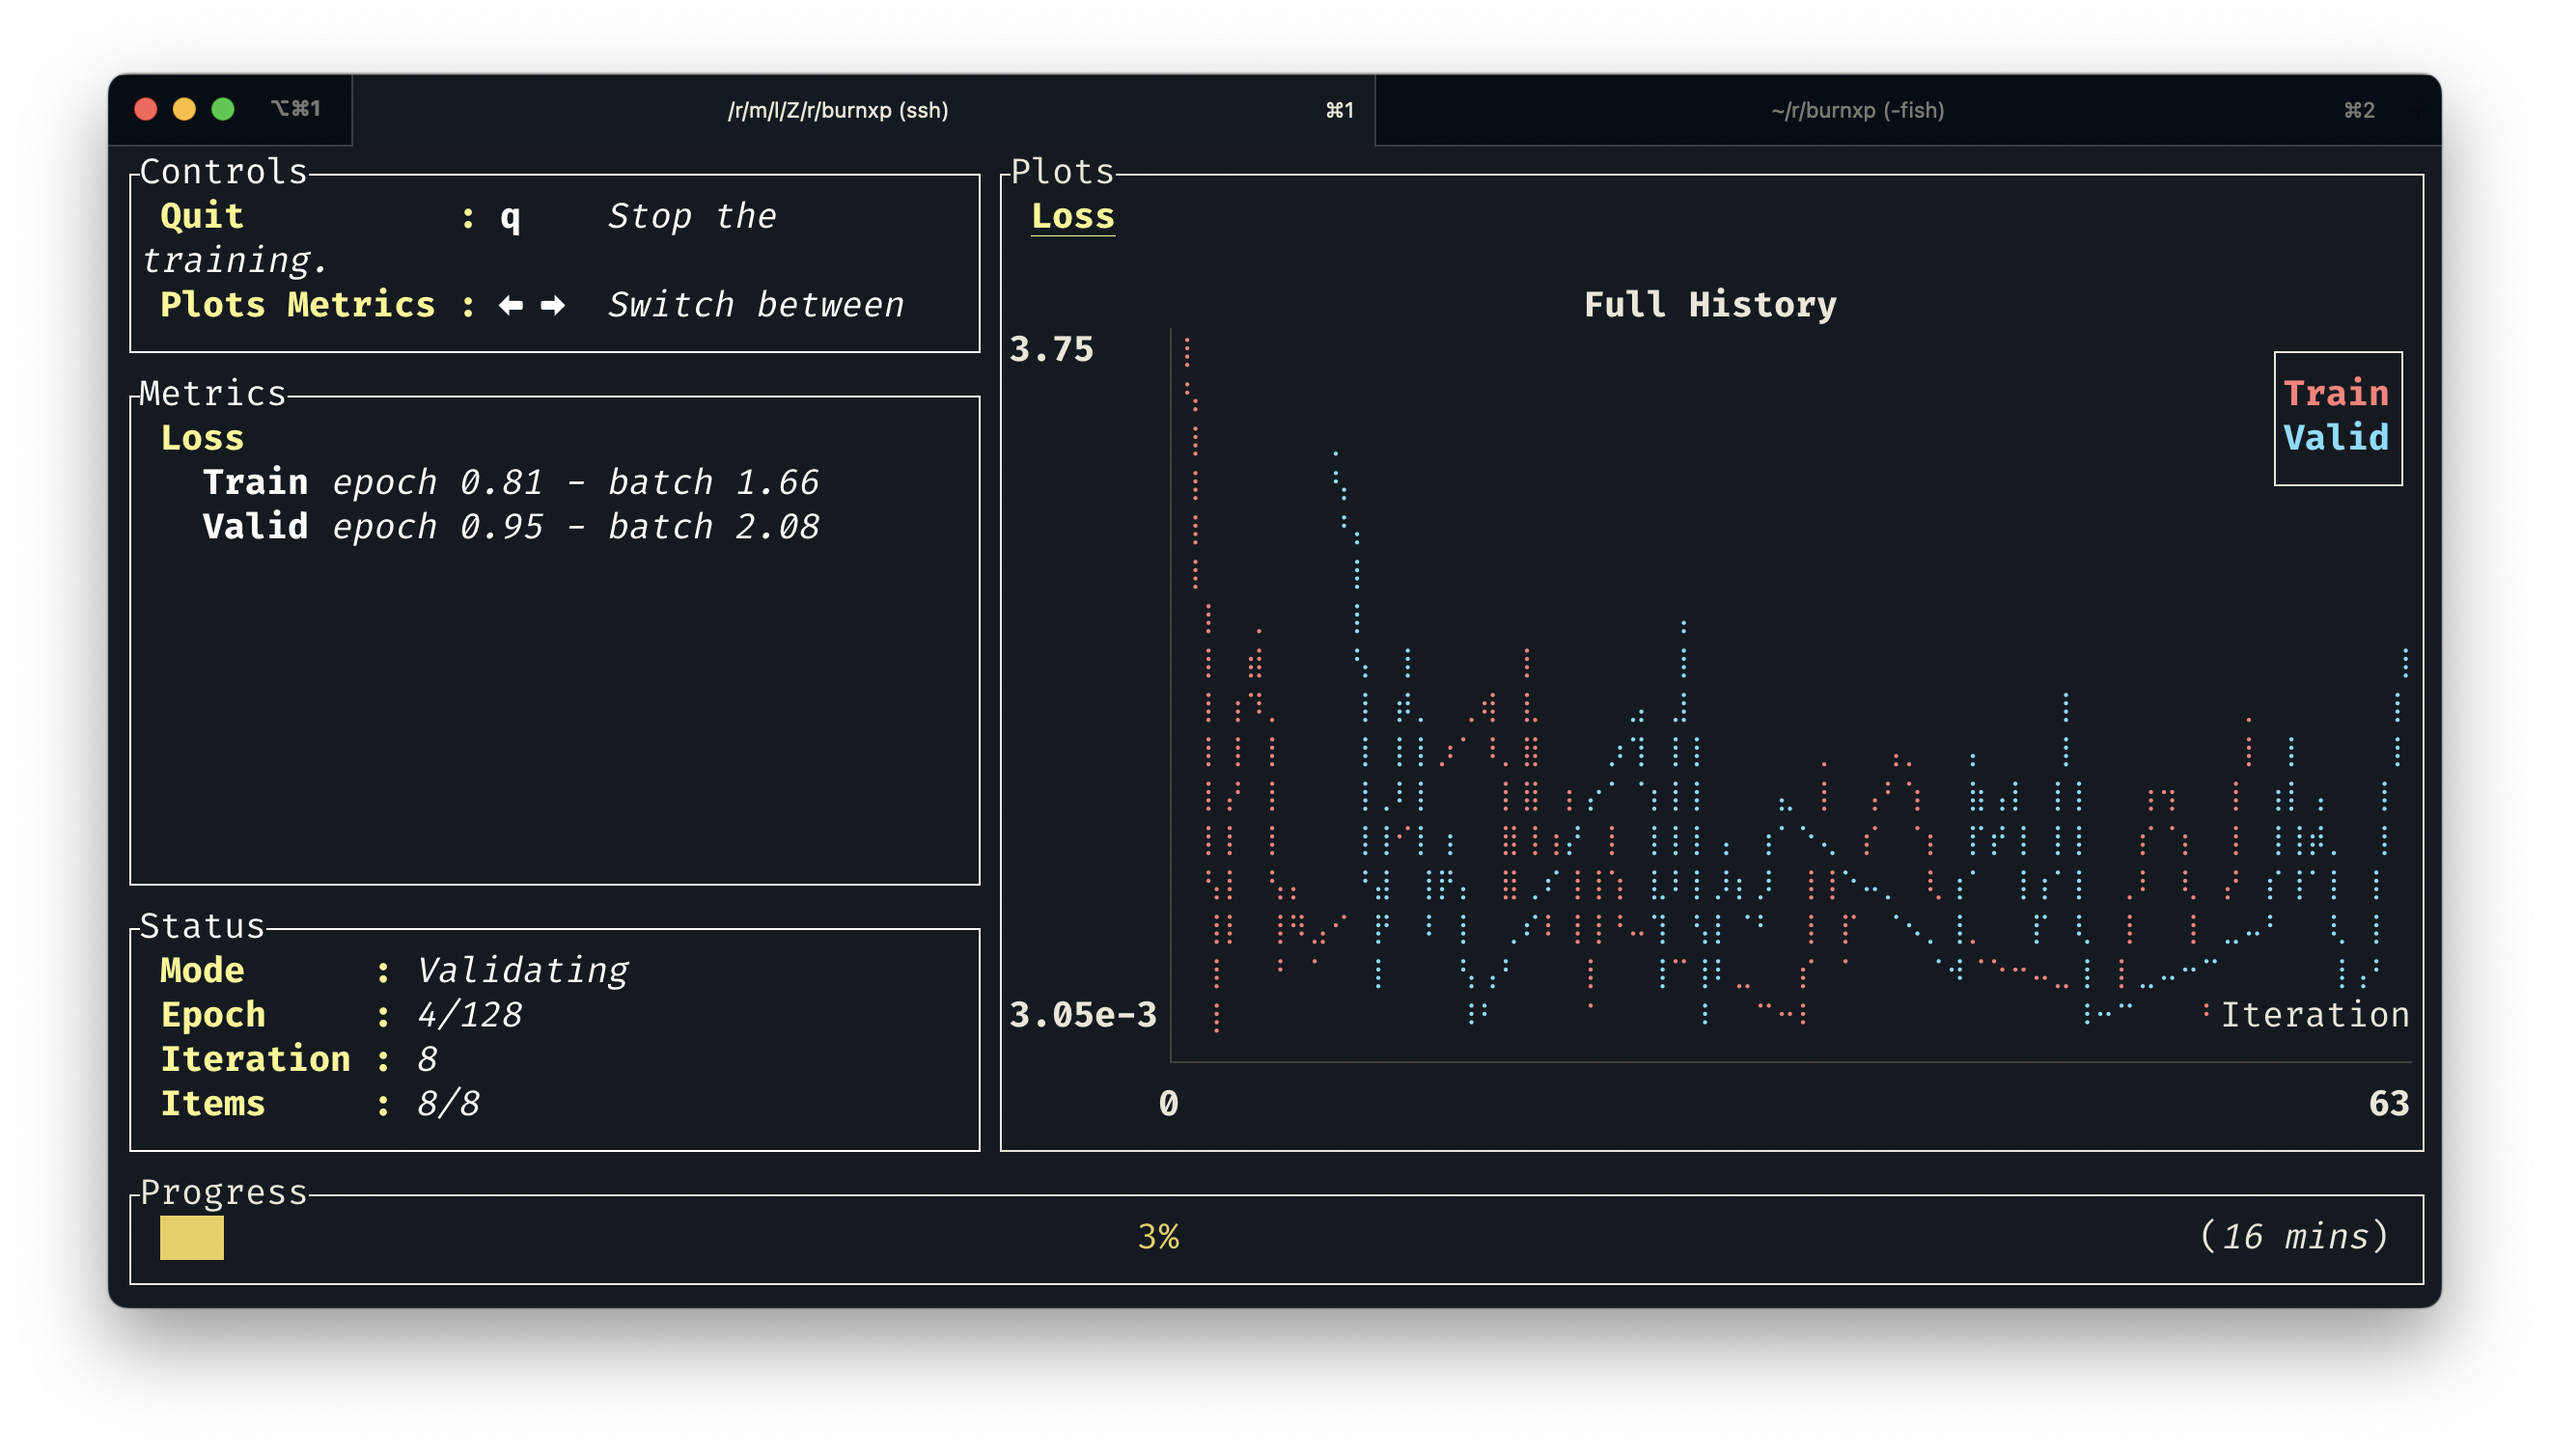
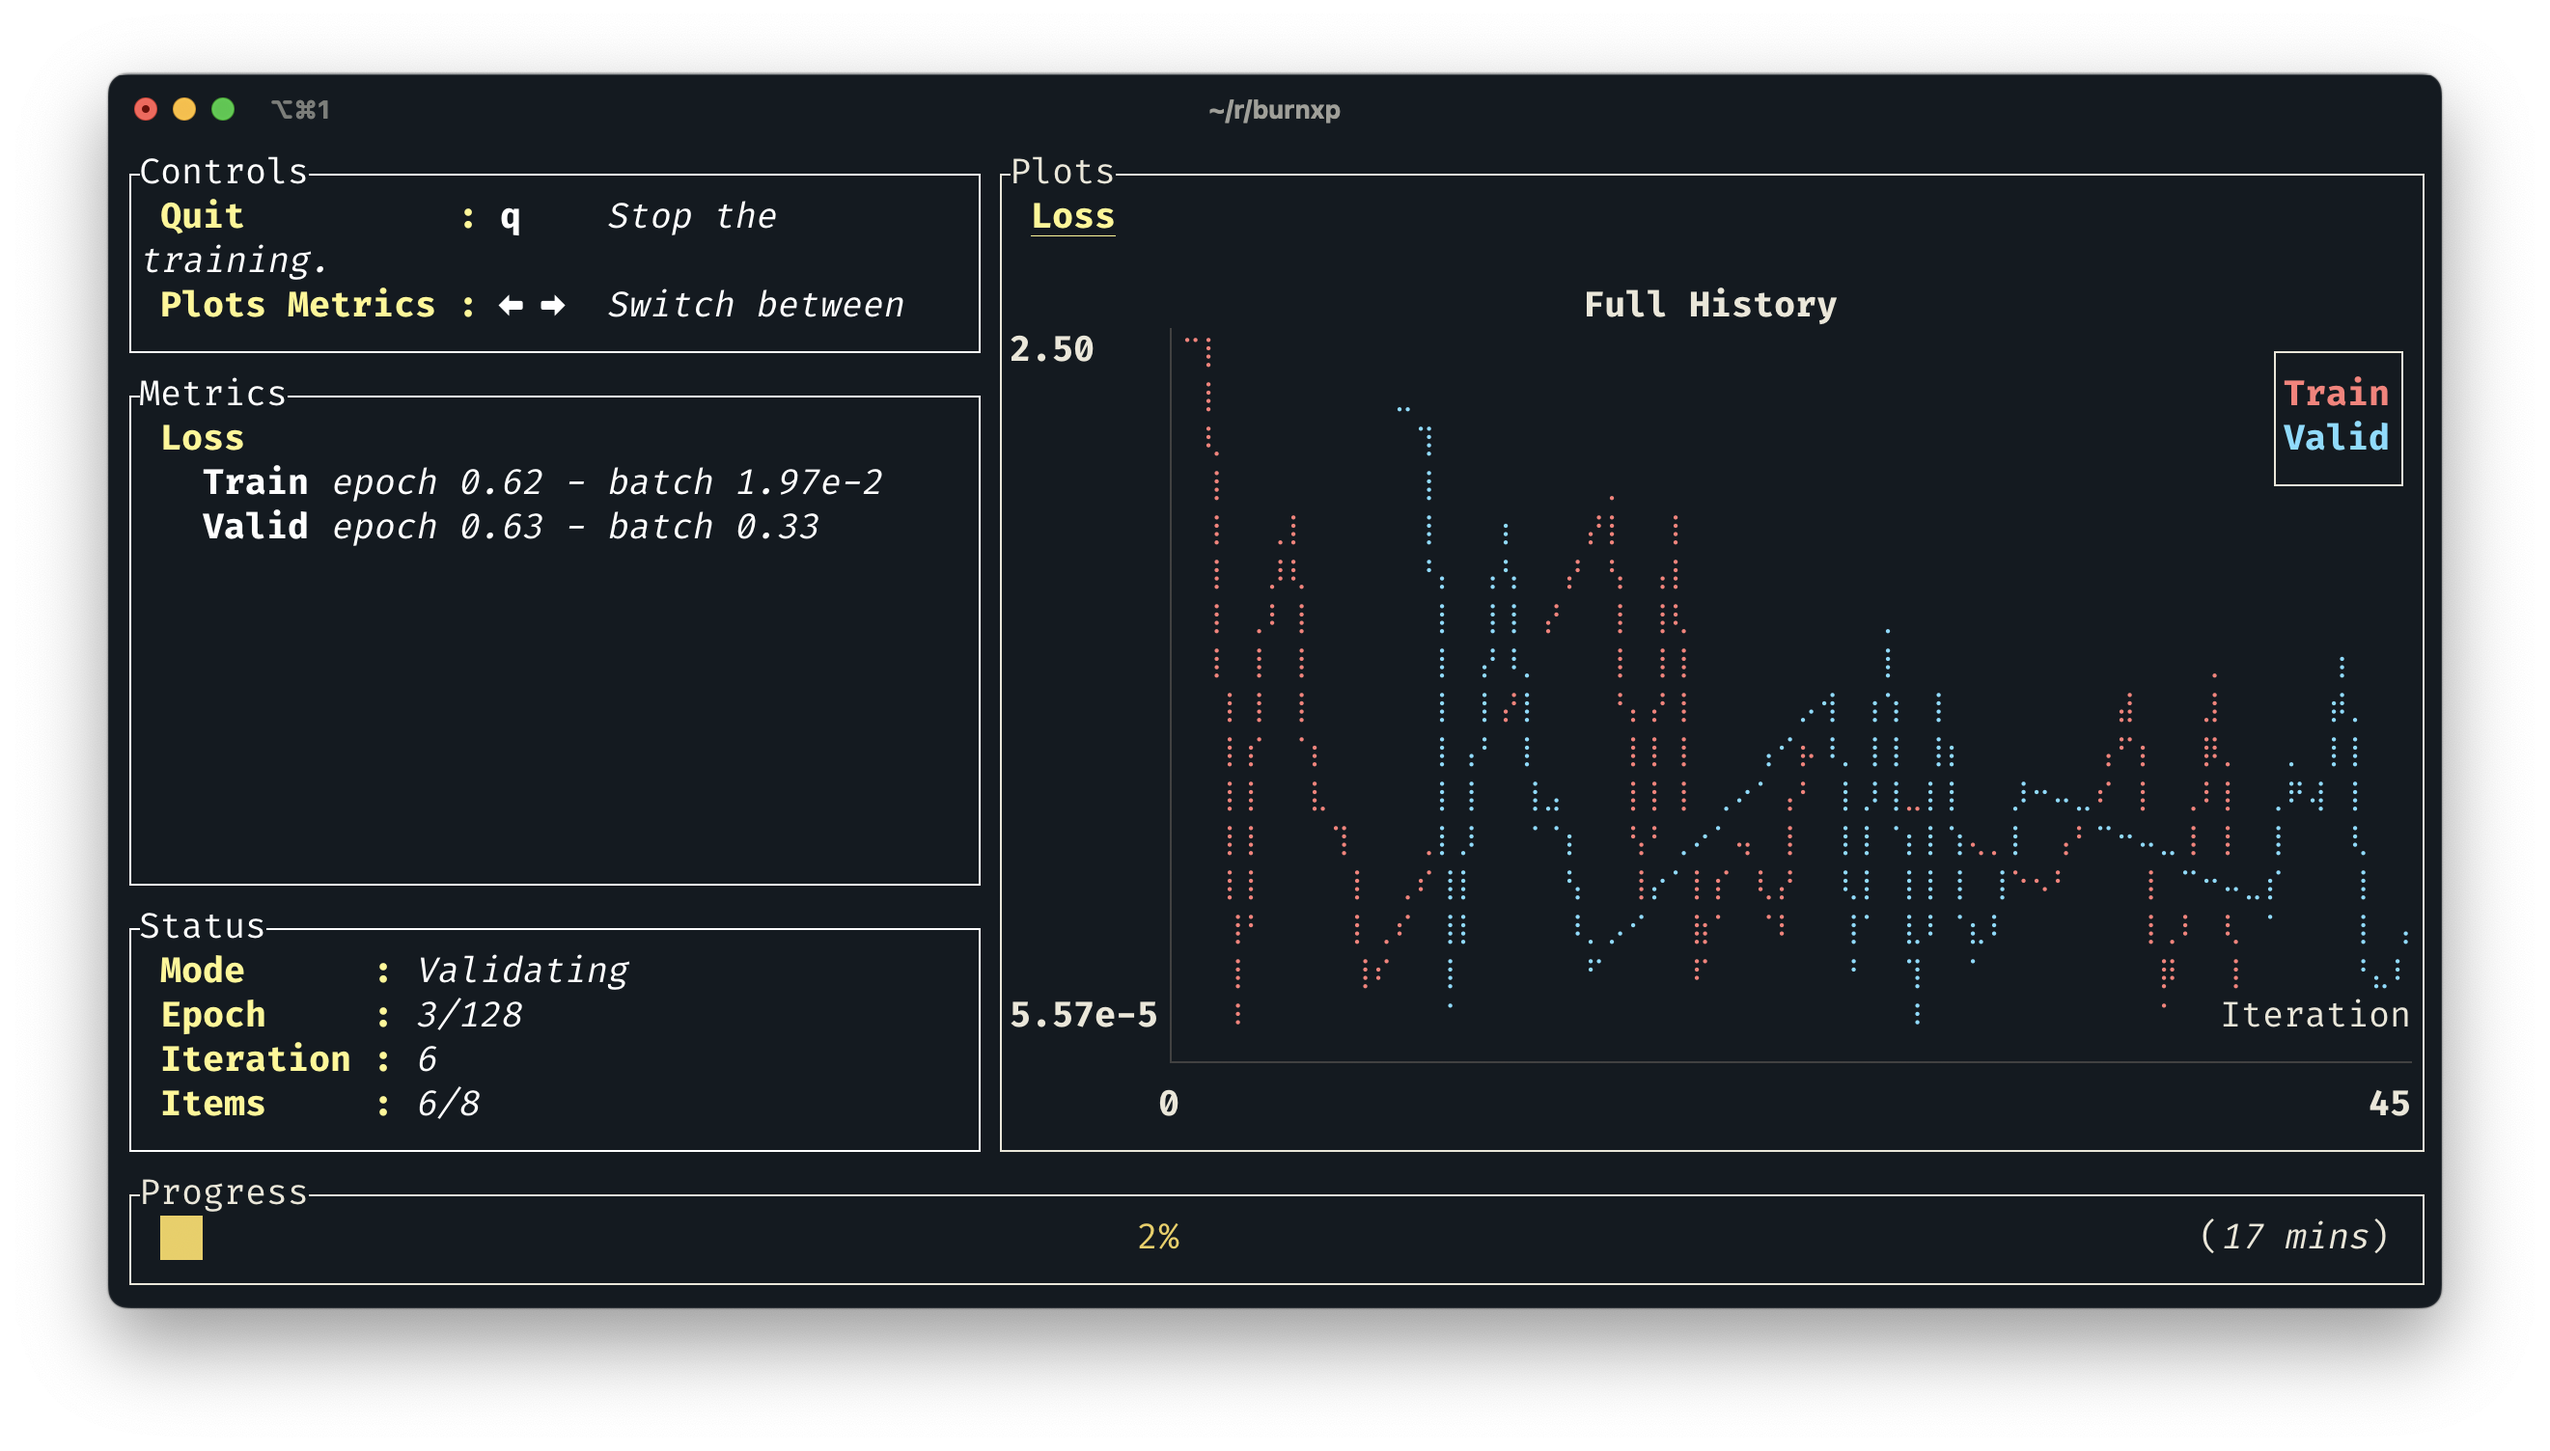
replace train screenshot

diff --git a/README.md b/README.md
@@ -7,7 +7,7 @@ which aims to clone oneself to some extent.
 
 This component `burnxp` is for cloning one's `Aesthetics Preferences`, also known as `XP`(性癖) in Chinese.
 
-Based on [burn](https://github.com/tracel-ai/burn), `burnxp score` can train a RNN model to score pictures 
+Based on [burn](https://github.com/tracel-ai/burn), `burnxp score` can train a RNN model to score pictures
 according to owner's sesthetics preferences.
 
 Based on [ratatui](https://github.com/ratatui/ratatui), `burnxp tagger` can aid in tagging pictures by
@@ -15,7 +15,7 @@ iteractively comparing the degree of compliance with sesthetics preferences.
 
 ## Tagger
 
-![screenshot](images/tagger_screenshot.png)
+![tagger_screenshot](images/tagger_screenshot.png)
 
 Features:
 - Sort pictures by comparing one by one (clever data structure and algorithm are used to
@@ -23,6 +23,10 @@ guarantee total order and O(nlogn) complexity)
 - L/R/U/D arrow keys for better/worse/much better/much worse
 - Sort, score and group pictures in json format
 - The user input will be cached so that user can continue from where he/she left off
+
+## Trainer
+
+![train_screenshot](images/train_screenshot.png)
 
 # Usage
 
